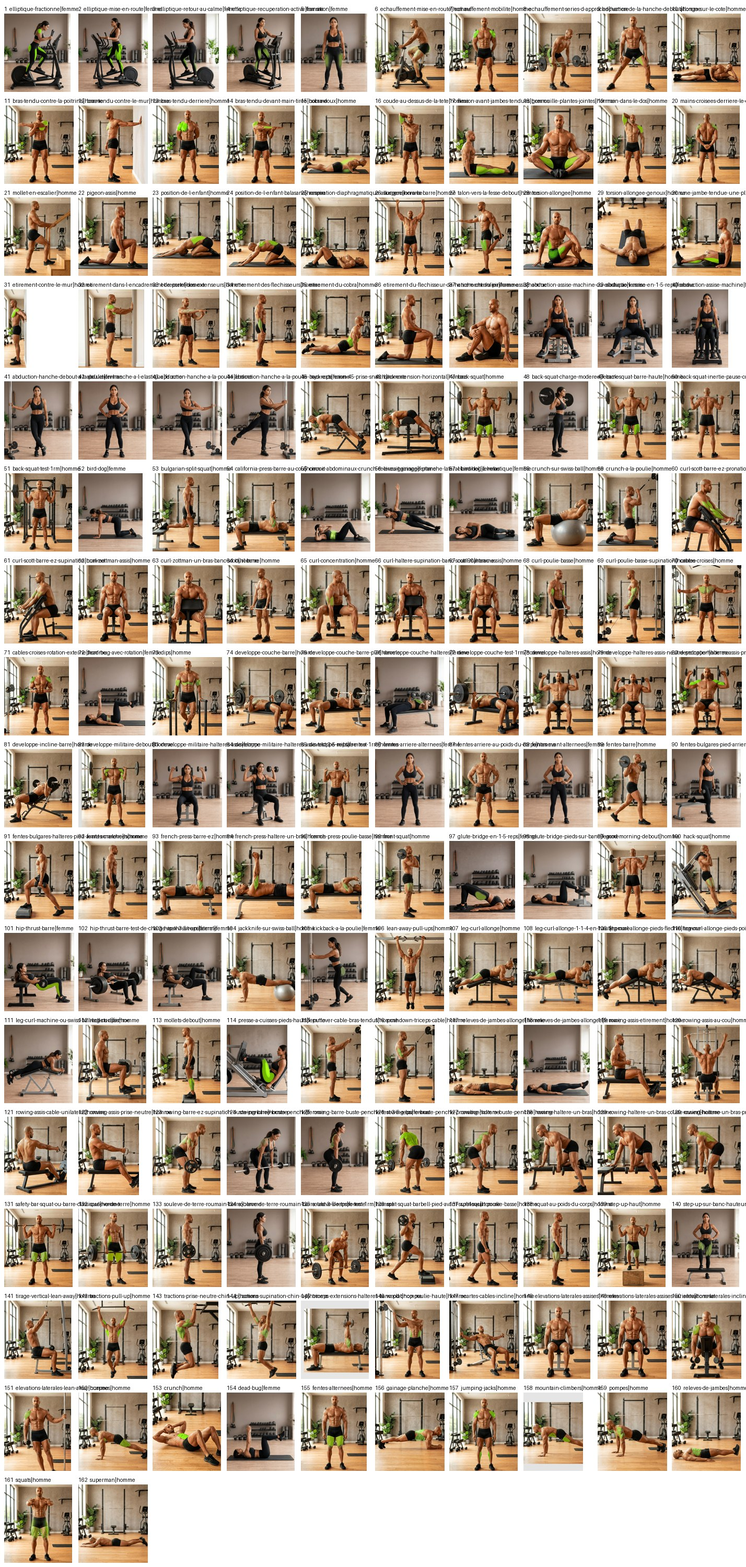
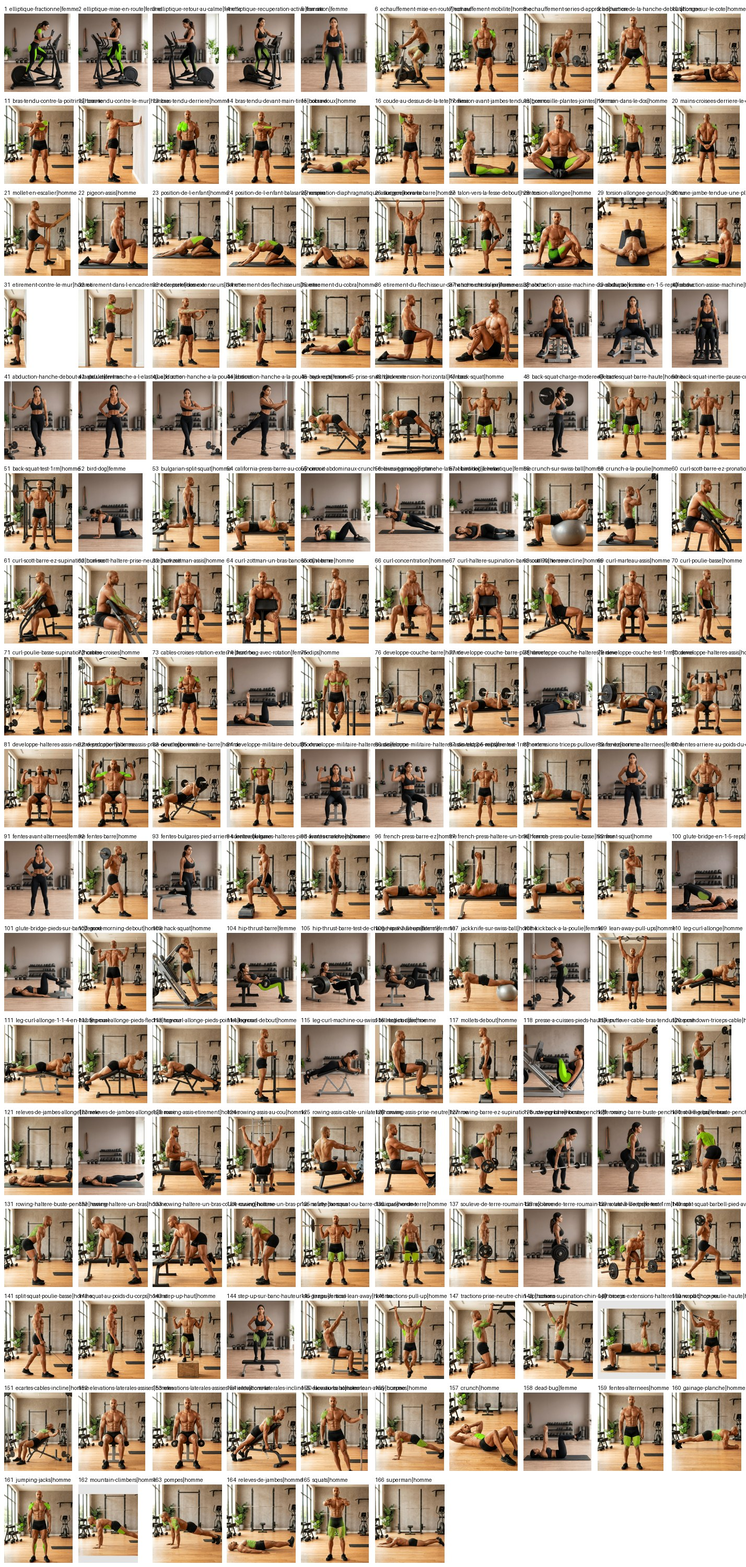
Lot 25 : ecartes incline et elevations laterales refaits a demande utilisateur + 4 neuves ; 2 refus restants ; 166/331

diff --git a/CE-QUI-COINCE.md b/CE-QUI-COINCE.md
@@ -8,20 +8,11 @@ bloquants ou qui demandent une décision.
 
 | Mouvement | Ce qui coince, mesuré | Déjà essayé | Solution prévue au prochain tour | Décision attendue de vous |
 |---|---|---|---|---|
-| **Développé haltère un bras debout (homme)** — 4 refus | lot 24 : deux haltères en case départ et côté de travail inversé entre les cases ; auparavant vert sur le bras libre | vert côté haltère, édition, manche complète | générer les **deux cases séparément** puis assembler : case 1 « haltère à l'épaule du côté GAUCHE de l'image, manche verte sur ce bras », case 2 « même bras tendu verticalement, côté GAUCHE de l'image » | aucune |
-| **Mountain climbers (femme)** — 2 refus | les deux cases montrent la même jambe avant (prompt et édition) | prompt « jambes permutées », édition ciblée | cases séparées : case 1 « genou de la jambe PROCHE de la caméra sous la poitrine », case 2 « genou de la jambe LOINTAINE sous la poitrine » | aucune |
+| **Développé haltère un bras debout (homme)** — 5 refus | cases séparées : la case 2 est bonne (manche verte, haltère en haut), la case 1 a mis l'haltère dans l'autre main | verts divers, édition, manche complète, cases séparées | **éditer la case 2 réussie** : « abaisse ce bras : coude plié, haltère posé sur l'épaule, garde la manche verte et tout le reste identique » → case 1 garantie cohérente | aucune |
+| **Mountain climbers (femme)** — 3 refus | cases séparées = saut d'angle/décor ; planche unique = jambes non échangées | prompt permuté, édition, cases séparées | planche UNIQUE avec jambes décrites par rapport à la caméra : case 1 « genou de la jambe PROCHE de la caméra », case 2 « genou de la jambe LOINTAINE, partiellement masqué par le torse » | aucune |
 
-**Audit réalisme clos** : les 6 planches validées condamnées ont toutes été remplacées et
-acceptées au lot 24 (voir §1b ci-dessous, grées désormais cohérentes).
-
-## 1b. Audit réalisme (clos au lot 24)
-
-68 planches avec appareil relues sur planches-contact (`verification/audit-machines-01..09.jpg`,
-`audit-bancs-01..02.jpg`, `audit-bancs-appui-01.jpg`) ; 93 sans appareil hors périmètre.
-6 planches condamnées, toutes remplacées et acceptées au lot 24 : cables-croises-rotation-externe,
-developpe-couche-barre, developpe-couche-test-1rm, ecartes-cables-incline, kickback-a-la-poulie,
-step-up-sur-banc-hauteur-du-genou. Règles de grée conservées dans `production/audit-realisme.json`
-et appliquées à tous les prompts depuis le lot 24.
+Clos ce tour : écartés câbles incliné et élévations latérales incliné 30° face au banc
+(refaits à votre demande, acceptés).
 
 ## 2. Blocs techniques récurrents du générateur d'images (constats, pas des excuses)
 

diff --git a/evolution/media/refonte-photo/PASSATION-NOUVEAU-CHAT.md b/evolution/media/refonte-photo/PASSATION-NOUVEAU-CHAT.md
@@ -10,8 +10,8 @@ session neuve (sans mémoire de la conversation précédente) puisse continuer s
 - Dépôt : `Yandevil974/JARVIS-Fitness-Yanis-Emilie.apk`
 - Branche de travail **obligatoire** : `arena/01a0d51c-jarvis-fitness-yanis-emilie-ap`
   (ne jamais pousser sur `main`, ne jamais créer d'autre branche).
-- Avancement : **162 / 331 animations validées** (`production/etat.json`, clé `chiffres`).
-  Restent **169** : musculation 87, piscine (protocoles) 40, tabata au sol 27,
+- Avancement : **166 / 331 animations validées** (`production/etat.json`, clé `chiffres`).
+  Restent **165** : musculation 83, piscine (protocoles) 40, tabata au sol 27,
   piscine (guides) 9, aqua tabata 6.
   Terminés : **étirements 29 ✅, elliptique 5 ✅, échauffement 3 ✅**.
 - **Vérification des mouvements déjà créés (25/09)** : 70 couples relus case par case
@@ -117,14 +117,14 @@ $P evolution/media/tools/refonte-sheet.py --athlete homme --out $R/gif/homme \
 ## 7. À faire au démarrage du nouveau chat
 
 1. Reprendre les **2 planches en attente** (`production/a-refaire.json`) : developpe-haltere-
-   un-bras-debout et mountain-climbers — stratégie « cases générées séparément puis
-   assemblées » (`CE-QUI-COINCE.md` §1). L'audit réalisme est clos : ses 6 remplacements
+   un-bras-debout (éditer la case 2 réussie pour abaisser le bras) et mountain-climbers
+   (planche unique, jambes décrites par rapport à la caméra) — `CE-QUI-COINCE.md` §1. L'audit réalisme est clos : ses 6 remplacements
    sont acceptés ; règles de grée obligatoires dans chaque prompt futur
    (`production/audit-realisme.json`).
 2. Continuer la relecture des **75 couples déjà valides non relus** (feuilles de 3,
    `feuilles-verif.py`), puis le lot « style » des 21 GIF sans vert sur une case
    (`production/style-a-reprendre.json`).
-3. Continuer la musculation (87 restants), puis
+3. Continuer la musculation (83 restants), puis
    **tabata au sol (27)**, **piscine guides (9)**, **piscine protocoles (40)**,
    **aqua tabata (6)** — par lots de ≤ 10.
 3. Après chaque lot : convertir, relire, mettre à jour `etat.json`, `a-refaire.json`,

diff --git a/evolution/media/refonte-photo/verification/VERIFICATION-2026-09-25.md b/evolution/media/refonte-photo/verification/VERIFICATION-2026-09-25.md
@@ -191,10 +191,23 @@ Prochaine strategie pour ces deux-la : generer les deux cases SEPAREMENT (descri
 relative a la camera : jambe proche/lointaine, bras cote gauche de l'image) puis assembler
 la planche par script. Feuilles : `verification/lot24-01..03.jpg`.
 
-## 20. Couverture et suite
+## 21. Lot 25 : refaits utilisateur + cases separees (meme tour)
 
-Relus sur les sept tours : **125 couples** (+7 remplacements d'audit relus au lot 24 = 132) (38 livrés + 10 lot 17 + 12 relecture + 10 lot 18).
-Sur les **161 valides** actuels, **53 restent à relire** (feuilles de 3, mêmes outils).
+Refaites a la demande utilisateur : ecartes-cables-incline (desormais ALLONGE sur le pad,
+vert aux deux cases, deux poulies basses ancrees) et elevations-laterales-incline-30-face-au-banc
+(torse FACE au pad, pieds joints derriere, plus a califourchon) : acceptees toutes les deux.
+Cases separees puis assemblees : developpe-haltere-un-bras-debout (case 2 bonne, case 1
+haltere dans la mauvaise main : 5e refus), mountain-climbers (saut d'angle et de decor entre
+les cases, echange illisible : 3e refus). Neuves acceptees 4 : extensions-triceps-pullover-barre-ez,
+curl-halteres-incline, leg-curl-debout, curl-scott-haltere-prise-neutre.
+Relecture batch 6 : 3/3 conformes (developpe-halteres-assis-prise-neutre, developpe-halteres-assis,
+developpe-incline-barre ; note cosmetique vert case fin seule sur 2 d'entre elles).
+Feuilles : `verification/lot25-01..03.jpg`, `verification/relecture-06.jpg`.
+
+## 22. Couverture et suite
+
+Relus sur les neuf tours : **141 couples** (38 livrés + 10 lot 17 + 12 relecture + 10 lot 18).
+Sur les **166 valides** actuels, **53 restent à relire** (feuilles de 3, mêmes outils).
 Production : **137 / 331** ; restants 194 (musculation 112, protocoles piscine 40,
 tabata au sol 27, piscine guides 9, aqua tabata 6). **3 planches en attente** dans
 `production/a-refaire.json` : rowing-barre-buste-penche-test-3-5-reps (3ᵉ refus),

diff --git a/PASSATION.md b/PASSATION.md
@@ -13,7 +13,7 @@ deux GIF distincts (l'un à l'homme, l'autre à la femme). L'écart inexpliqué 
 
 | Surface | Faits et vérifiés | Restants |
 |---|---|---|
-| Musculation | 115 | 87 |
+| Musculation | 119 | 83 |
 | Tabata au sol | 10 | 27 |
 | Étirements | 29 | 0 ✅ |
 | Piscine (guides) | 0 | 9 |
@@ -21,7 +21,7 @@ deux GIF distincts (l'un à l'homme, l'autre à la femme). L'écart inexpliqué 
 | Aqua Tabata | 0 | 6 |
 | Elliptique | 5 | 0 ✅ |
 | Échauffement | 3 | 0 ✅ |
-| **Total** | **162** | **169** |
+| **Total** | **166** | **165** |
 
 **25 septembre 2026 — reprise dans un nouveau chat : les mouvements déjà créés ont été
 vérifiés avant de produire.** 119 GIF livrés mesurés (`evolution/media/tools/verif-gifs.py` :
